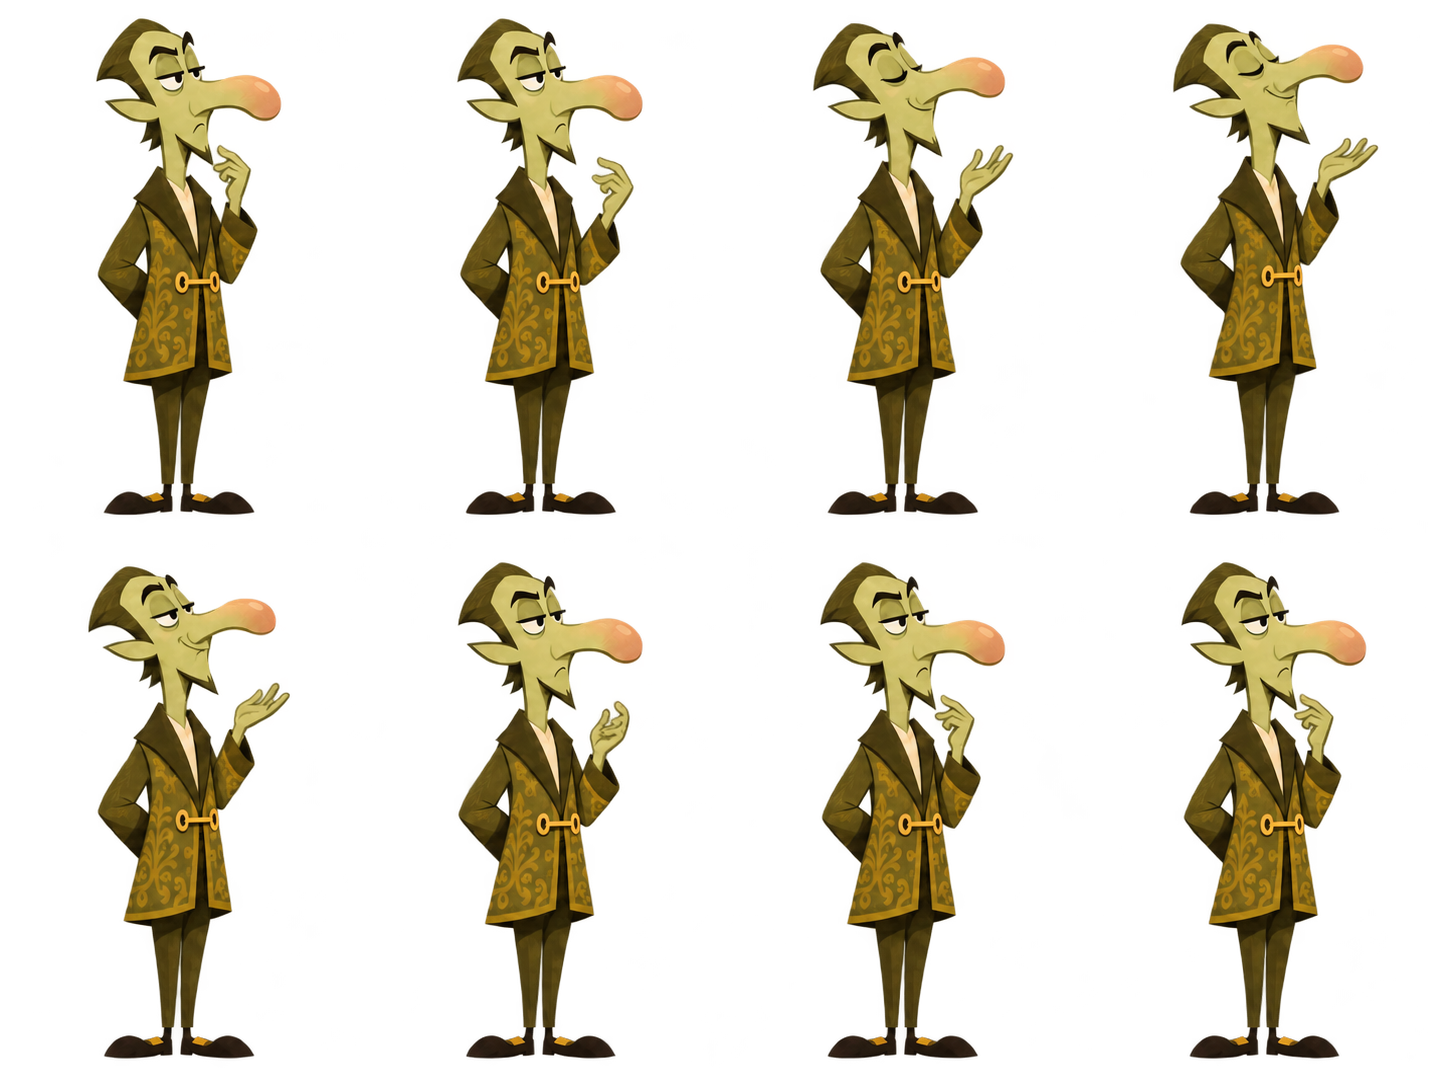
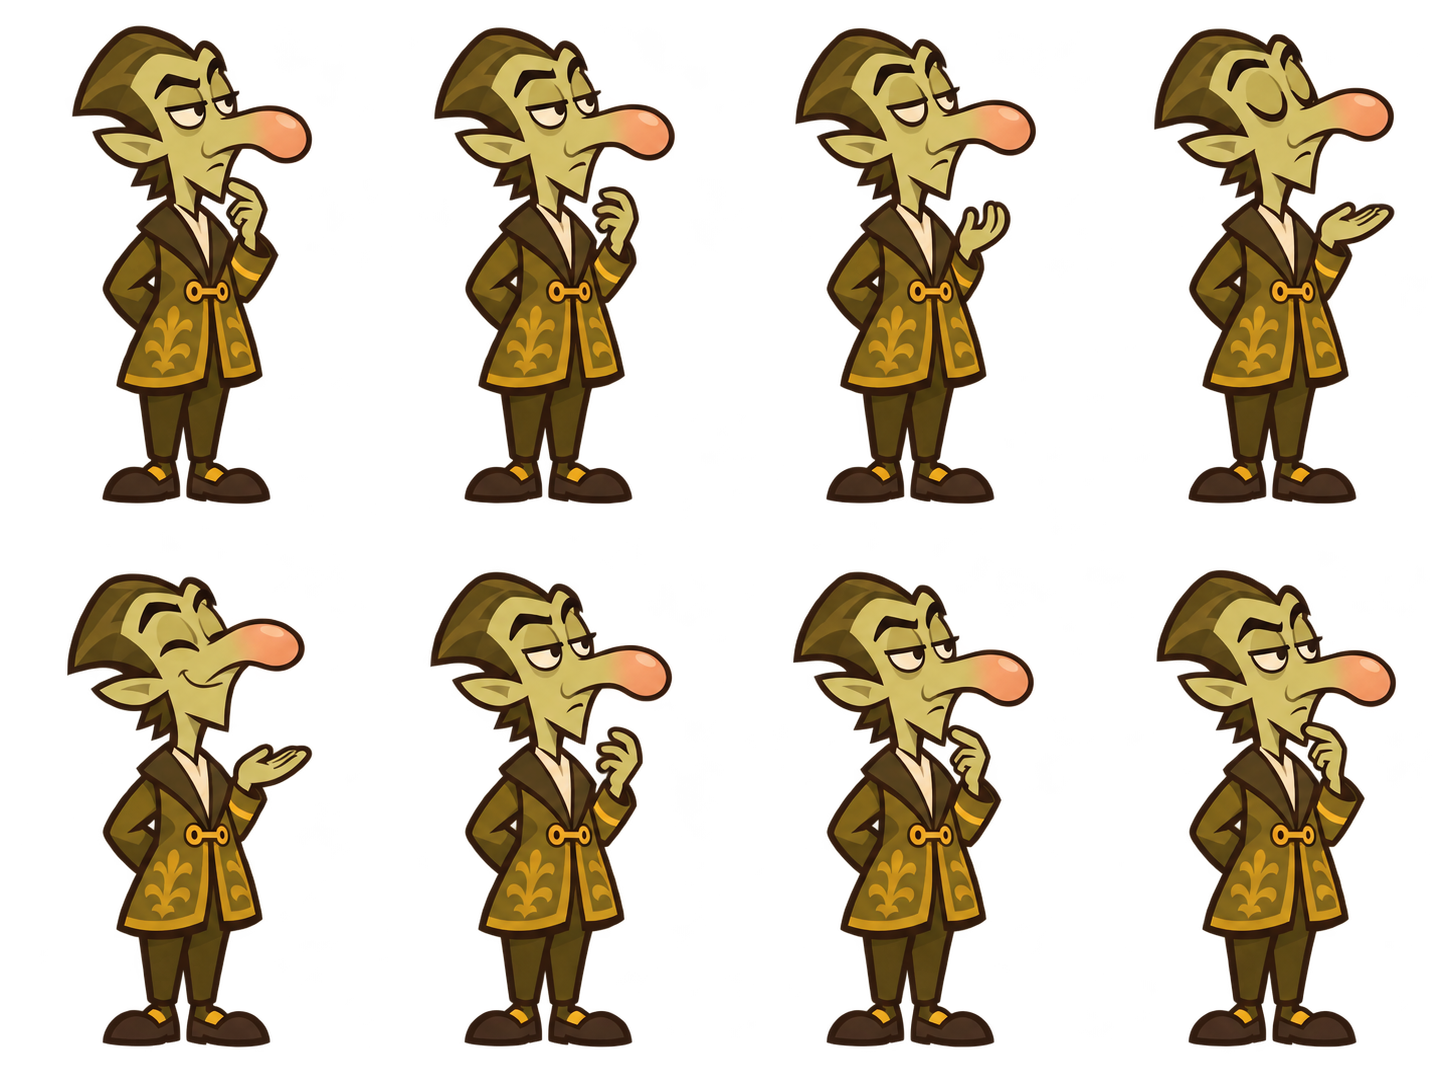
art: replace long-nosed guest with approved bold-outline idle animation

diff --git a/docs/progress.md b/docs/progress.md
@@ -865,3 +865,10 @@
 - C同步main：仅进度文档发生追加段落冲突，已保留B/D与C全部记录；场景/脚本自动合并无冲突。后续回归针对合并后的代码运行。
 
 - C发布前最终回归（同步main@c89c88c后）：floor_4_layout、foundation、encounter_flow、floor_flow、task_01_main_flow、world_interaction全部PASS；资源导入无脚本/资源加载错误，保留既有safe-save系统提示。沿用最终组件实机截图检查，未宣称四楼主线任务已实现。
+
+
+### 2026-11-19 C：新版长鼻怪8帧动画替换与发布授权
+
+- 用户已确认新版单张与8帧站姿，并授权替换游戏、推送个人分支、合入main。以确认PNG无损替换assets/final/monster_idle/nose_idle_sheet.png，尺寸1448×1086、4×2、每格362×543，真实Alpha0—255，SHA-256更新至manifest；其余四怪PNG未改。art_sources/monster_idle/nose_v2保留确认单张、内置imagegen提示词及8帧边界信息。
+- 共用适配器只调整NOSE脚底基线514→504和各帧时长（420/130/150/220/350/150/150/300ms），保留整格切片、既有显示缩放、开门显示/关门隐藏和模态冻结机制；未改门逻辑、碰撞、卡片或任务。
+- 实际Compatibility渲染检查201门前的新长鼻怪与主角/布景的描边和尺寸、脚底站位；截图为显式预览夹具，不代记剧情/任务完整通关。encounter_flow、floor_2_layout、floor_3_layout、floor_4_layout、task_01_main_flow五项PASS，git diff --check通过。当前main@8e64221已核对，无新增远端提交。
